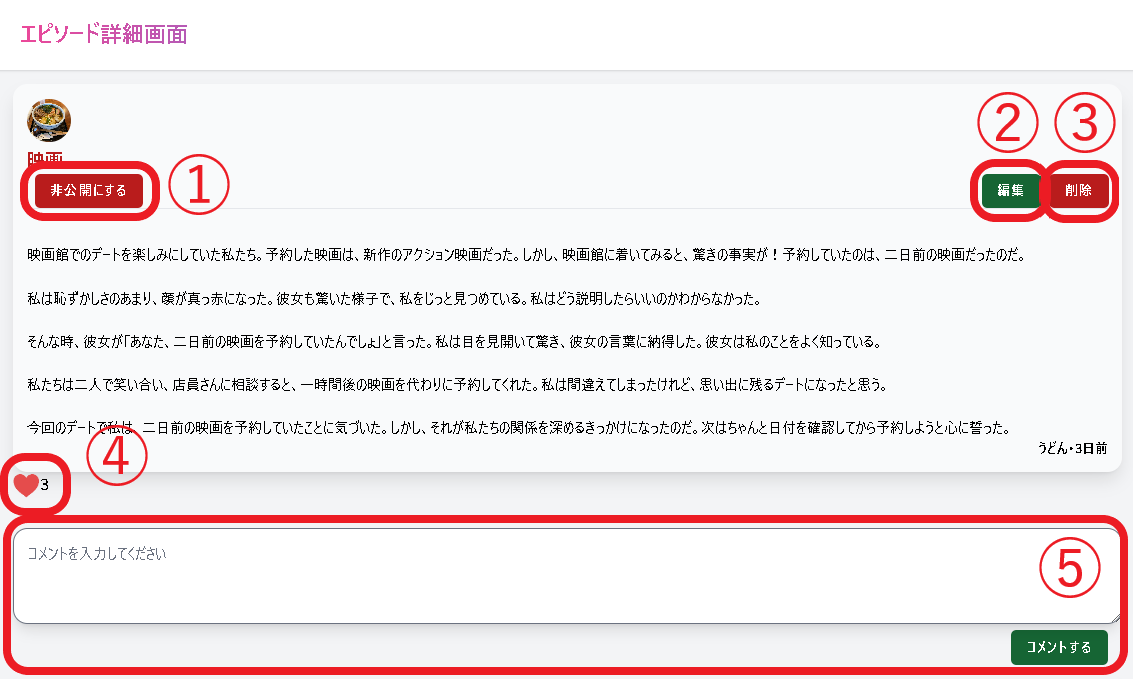
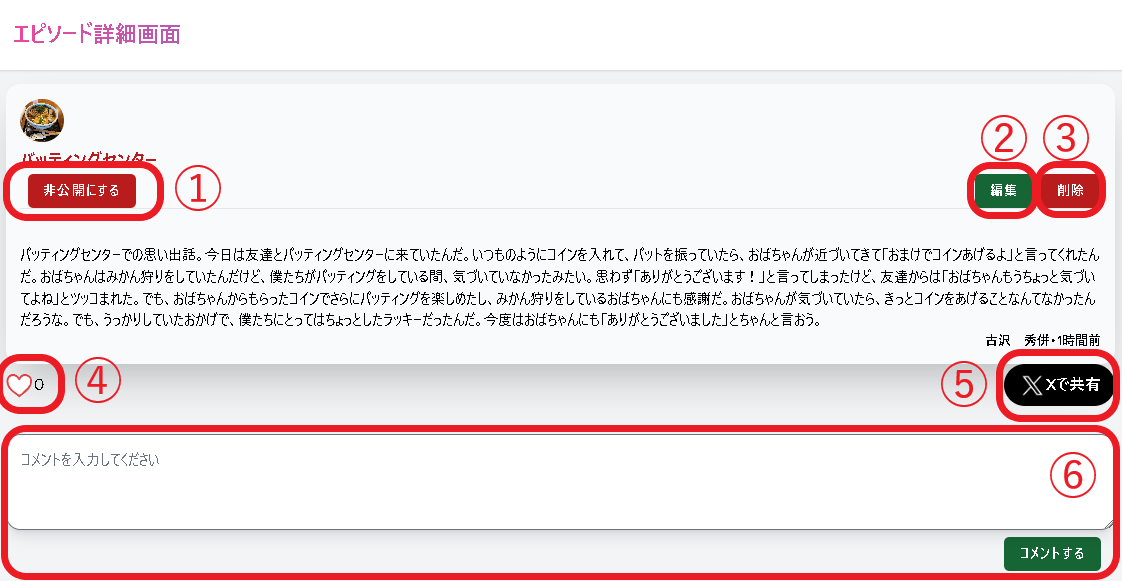
マニュアルに「Xで共有」項目を追加

Changed region(s): [[0.0, 0.1239, 0.9982, 1.0], [0.0, 0.031, 0.1872, 0.0929]]

diff --git a/resources/views/manual.blade.php b/resources/views/manual.blade.php
@@ -138,7 +138,12 @@
                             ②「編集」<br>エピソードの編集画面に移動します。<br><br>
                             ③「削除」<br>エピソードを削除します。<br><br>
                             ④「いいね」<br>エピソードにいいねすることができます。いいねをするとハートマークが赤くなります。<br><br>
-                            ⑤「コメント」<br>エピソードにコメントすることができます。コメント入力欄に入力し、「コメントする」ボタンを押します。<br><br>
+                            ⑤「Xで共有」<br>自分で作成したエピソードの場合のみ、このボタンが表示されます。Xで共有してポストすることができます。<br><br>
+                            ⑥「コメント」<br>エピソードにコメントすることができます。コメント入力欄に入力し、「コメントする」ボタンを押します。<br><br>
+                        </p>
+                        <img src="{{ asset('img/manual/syousai2.png') }}" alt="エピソード詳細" class="manual-img-large">
+                        <p class="text-base mb-4">
+                            ⑦「エピソード詳細」<br>エピソード作成時の詳細を確認できます。<br><br>
                         </p>
                         <p class="text-base mb-4">エピソード詳細画面の説明は以上です。</p>
                     </div>
